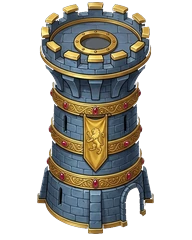
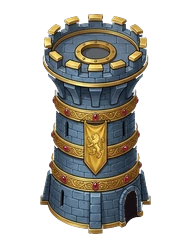
Обновление игры

diff --git a/js/art.js b/js/art.js
@@ -1,7 +1,7 @@
 // Графика башен и зданий: растровые ассеты из img/ (js/sprites.js); процедурная отрисовка — запасной вариант и для зданий без ассетов (банк, алтарь).
 // Все спрайты рисуются кодом при загрузке и кэшируются в canvas (масштаб S подбирается под экран).
-import { SPR, img } from './sprites.js?v=20261025134940';
-import { TOWERS } from './data.js?v=20261025134940';
+import { SPR, img } from './sprites.js?v=20261025135957';
+import { TOWERS } from './data.js?v=20261025135957';
 export { SPR };
 export const OUT = '#170a0f';
 export let S = 2;
@@ -574,7 +574,7 @@ function towerIdx(type, lvl, br) {
   if (type === 'mine') return Math.min(lvl, k) - 1;
   if (m.bylevel) return Math.min(lvl, k) - 1;                               // 5 картинок = 5 уровней (мортира, огнемёт, гарпун)
   if (k === 5) return lvl <= 3 ? lvl - 1 : (br === 'A' ? 4 : 3);
-  const tab = k >= 4 ? [0, 1, 2, 3, 3] : k === 3 ? [0, 1, 2, 2, 2] : [0, 0, 1, 1, 1];
+  const tab = k >= 4 ? [0, 1, 2, 3, 3] : k === 3 ? (TOWERS[type] && TOWERS[type].premium ? [0, 1, 1, 2, 2] : [0, 1, 2, 2, 2]) : [0, 0, 1, 1, 1];      // у премиума три внешних вида: 1 ур., 2–3 ур., 4–5 ур.
   return tab[Math.min(lvl, 5) - 1];
 }
 // Здание не больше клетки по ширине и клетки с небольшим запасом по высоте: соседние здания не закрывают друг друга.
@@ -582,14 +582,18 @@ function towerIdx(type, lvl, br) {
 // предельные размеры (ширина, высота) здания на карте; узкие и низкие здания разрешено делать крупнее
 const CAPS = { mortar: [56, 78], mine: [50, 58], bolt: [56, 72], frost: [56, 72], tesla: [56, 72], saw: [56, 70], banner: [56, 72], flame: [56, 78], voidwell: [56, 70], toxic: [56, 68], bank: [56, 70], altar: [56, 66], harpoon: [56, 78],
   gold_bolt: [56, 78], storm_tesla: [56, 72], hell_flame: [56, 78] }, CAP_DEF = [56, 64], GK = {};
-function groupK(type) {
-  if (GK[type]) return GK[type];
-  const [cw, ch] = CAPS[type] || CAP_DEF; let k = TS * 2; for (const [l, t, r, b] of SPR.towers[type].boxes) k = Math.min(k, cw / (r - l), ch / (b - t));
-  return (GK[type] = Math.min(TS, k / LEVEL_MULT[4]));
+// Размер спрайта считается по каждой картинке отдельно: ранние уровни (маленькие хижины, низкие постаменты) растягиваются до доли предельной высоты (HF), чтобы не казаться крошечными; ширина ограничена CAPS.
+const HF = [0.86, 0.93, 1, 1, 1], TS_MAX = 0.46, SK = {};
+function spriteK(type, lvl, br) {
+  const i = towerIdx(type, lvl, br), key = type + ':' + i + ':' + Math.min(lvl, 5); if (SK[key]) return SK[key];
+  const [l, t, r, b] = SPR.towers[type].boxes[i], [cw, ch] = CAPS[type] || CAP_DEF, hf = HF[Math.min(lvl, 5) - 1];
+  return (SK[key] = Math.min(TS_MAX, cw / (r - l), (ch * hf) / (b - t)));
 }
-const spriteK = (type, lvl) => groupK(type) * LEVEL_MULT[Math.min(lvl, 5) - 1];
+// точка картинки башни (пикселы ячейки 192×240) в координатах карты относительно якоря здания (x - TW_AX, y - TW_AY добавляет вызывающий)
+export function towerPt(type, lvl, br, px, py) { const k = spriteK(type, lvl, br); return { x: 40 - 96 * k + px * k - TW_AX, y: TW_BASE_Y - 240 * k + py * k - TW_AY }; }
+export function towerDoors(type, lvl, br) { const m = SPR.ok && SPR.towers[type]; return (m && m.doors && m.doors[towerIdx(type, lvl, br)]) || []; }
 export function towerGeo(type, lvl, br) {
-  const i = towerIdx(type, lvl, br), [l, t, r, b] = SPR.towers[type].boxes[i], k = spriteK(type, lvl);
+  const i = towerIdx(type, lvl, br), [l, t, r, b] = SPR.towers[type].boxes[i], k = spriteK(type, lvl, br);
   const x0 = 40 - 96 * k, y0 = TW_BASE_Y - 240 * k;
   return { top: y0 + t * k, bottom: y0 + b * k, left: x0 + l * k, right: x0 + r * k };
 }
@@ -598,7 +602,7 @@ const BR_TINT = { A: '#4aa8ff', B: '#ff3a3a' };
 const RIM = { frost: '#d4f0ff', tesla: '#c4e4ff', toxic: '#e0ffb8', flame: '#ffd8a8', voidwell: '#e6d0ff', banner: '#ffd0d0', saw: '#ffe6c0', mine: '#fff0b8' };
 function spriteTower(type, lvl, br) {
   const i = towerIdx(type, lvl, br), im = img(`towers/${type}_${i}.webp`); if (!im) return null;
-  const k = spriteK(type, lvl), w = 192 * k, h = 240 * k;
+  const k = spriteK(type, lvl, br), w = 192 * k, h = 240 * k;
   const rim = RIM[type] || '#fff4d0';
   const body = mk(TW_W, TW_H, (g2) => {
     g2.imageSmoothingQuality = 'high'; g2.drawImage(im, 40 - w / 2, TW_BASE_Y - h, w, h);
@@ -642,7 +646,7 @@ export function rotHead(type, lvl, br) {
   if (!type) return null;
   const m = SPR.ok && SPR.towers[type]; if (!m || !m.head) return null;
   const im = img(`towers/${type}_head.webp`); if (!im) return null;
-  const i = towerIdx(type, lvl, br), k = spriteK(type, lvl), [hx, hy] = m.holes[i], w = 192 * k, h = 240 * k;
+  const i = towerIdx(type, lvl, br), k = spriteK(type, lvl, br), [hx, hy] = m.holes[i], w = 192 * k, h = 240 * k;
   return { im, cw: m.head.cw, ch: m.head.ch, ax: m.head.ax, ay: m.head.ay, mx: m.head.mx || 0, my: m.head.my || 0, k, dx: 40 - w / 2 + hx * k - TW_AX, dy: TW_BASE_Y - h + hy * k - TW_AY };
 }
 // Дуло повёрнутой головы в тех же координатах, где рисуются снаряды и эффекты: ось плиты + вынос ствола вдоль одного из 8 направлений картинки (эллипс: вдоль экрана 1, вглубь 0.5) и высота дула над плитой.

diff --git a/js/main.js b/js/main.js
@@ -1,26 +1,26 @@
 // Точка входа: загрузка ассетов, навигация (старт → карта → сложность → подготовка → бой), игровой цикл, ввод, сохранения.
-import * as D from './data.js?v=20261025134940';
-import * as A from './art.js?v=20261025134940';
-import { Sim } from './sim.js?v=20261025134940';
-import { Gore } from './gore.js?v=20261025134940';
-import { Renderer } from './render.js?v=20261025134940';
-import { GameUI } from './ui.js?v=20261025134940';
-import { Tutorial } from './tutorial.js?v=20261025134940';
-import { Sfx, attachSfx } from './audio.js?v=20261025134940';
-import { TG, defaultSave, defaultSettings, betterRun } from './tg.js?v=20261025134940';
-import { applyEnemySprites, releaseEnemies, enemyFiles } from './enemies.js?v=20261025134940';
-import { loadSprites, loadEnemyImgs, loadLand, dropLand } from './sprites.js?v=20261025134940';
-import { mapBG, releaseBG } from './env.js?v=20261025134940';
-import { MENU_SPEC } from './music.js?v=20261025134940';
-import { Meta, perkMods, lockedItems, nextAfter, tutorialDone, getLoadout, slotsOf } from './meta.js?v=20261025134940';
-import { renderForge, renderAchs } from './screens.js?v=20261025134940';
-import { renderShop } from './shop.js?v=20261025134940';
-import { Wallet } from './wallet.js?v=20261025134940';
-import { initLang, pickLang } from './i18n.js?v=20261025134940';
-import { Menus, RUN, clock } from './menus.js?v=20261025134940';
-import { Net } from './net.js?v=20261025134940';
-import { gemIc } from './res.js?v=20261025134940';
-import { bareGlyphUrl, glyphIcon, iconUrl, PALETTE } from './icons.js?v=20261025134940';
+import * as D from './data.js?v=20261025135957';
+import * as A from './art.js?v=20261025135957';
+import { Sim } from './sim.js?v=20261025135957';
+import { Gore } from './gore.js?v=20261025135957';
+import { Renderer } from './render.js?v=20261025135957';
+import { GameUI } from './ui.js?v=20261025135957';
+import { Tutorial } from './tutorial.js?v=20261025135957';
+import { Sfx, attachSfx } from './audio.js?v=20261025135957';
+import { TG, defaultSave, defaultSettings, betterRun } from './tg.js?v=20261025135957';
+import { applyEnemySprites, releaseEnemies, enemyFiles } from './enemies.js?v=20261025135957';
+import { loadSprites, loadEnemyImgs, loadLand, dropLand } from './sprites.js?v=20261025135957';
+import { mapBG, releaseBG } from './env.js?v=20261025135957';
+import { MENU_SPEC } from './music.js?v=20261025135957';
+import { Meta, perkMods, lockedItems, nextAfter, tutorialDone, getLoadout, slotsOf } from './meta.js?v=20261025135957';
+import { renderForge, renderAchs } from './screens.js?v=20261025135957';
+import { renderShop } from './shop.js?v=20261025135957';
+import { Wallet } from './wallet.js?v=20261025135957';
+import { initLang, pickLang } from './i18n.js?v=20261025135957';
+import { Menus, RUN, clock } from './menus.js?v=20261025135957';
+import { Net } from './net.js?v=20261025135957';
+import { gemIc } from './res.js?v=20261025135957';
+import { bareGlyphUrl, glyphIcon, iconUrl, PALETTE } from './icons.js?v=20261025135957';
 
 const $ = (s) => document.querySelector(s);
 const show = (id) => $(id).classList.remove('hidden');
@@ -49,8 +49,8 @@ async function boot() {
   await initLang(pickLang());                                                   // язык интерфейса: до построения экранов
   TG.init();
   if (location.search.includes('debug')) window.__bk = ctrl;
-  if (location.search.includes('enemydemo')) import('./demo.js?v=20261025134940').then((m) => m.enemyDemo(ctrl));
-  if (location.search.includes('buildall')) import('./demo.js?v=20261025134940').then((m) => m.buildAll(ctrl));
+  if (location.search.includes('enemydemo')) import('./demo.js?v=20261025135957').then((m) => m.enemyDemo(ctrl));
+  if (location.search.includes('buildall')) import('./demo.js?v=20261025135957').then((m) => m.buildAll(ctrl));
   save = await TG.load(); ctrl.save = save;
   sfx.sfxOn = save.sfx; sfx.musOn = save.mus; applySettings();
   const dpr = Math.min(window.devicePixelRatio || 1, TG.isMobile ? 1.5 : 2);      // на телефоне холст чуть мельче: меньше нагрев

diff --git a/js/render.js b/js/render.js
@@ -1,10 +1,10 @@
 // Отрисовка игрового поля: фон, кровь, сущности (с сортировкой по глубине), снаряды, частицы, подсказки.
-import { CELL, COLS, ROWS, WORLD_W, WORLD_H, PAD, VIEW_COLS, TOWERS, ECON, SPELLS } from './data.js?v=20261025134940';
-import * as A from './art.js?v=20261025134940';
-import { ENEMY_ART, FRAMES, enemyFrame, tinted, tintCanvas, animFrame, eliteFrame, drawAnim, BLOOD } from './enemies.js?v=20261025134940';
-import { tile } from './iconmap.js?v=20261025134940';
-import { img } from './sprites.js?v=20261025134940';
-import { mapBG, glowSprite, smokeSprite, shardSprite, coinSprite, bagSprite, sawBladeSprite, scorchSprite } from './env.js?v=20261025134940';
+import { CELL, COLS, ROWS, WORLD_W, WORLD_H, PAD, VIEW_COLS, TOWERS, ECON, SPELLS } from './data.js?v=20261025135957';
+import * as A from './art.js?v=20261025135957';
+import { ENEMY_ART, FRAMES, enemyFrame, tinted, tintCanvas, animFrame, eliteFrame, drawAnim, BLOOD } from './enemies.js?v=20261025135957';
+import { tile } from './iconmap.js?v=20261025135957';
+import { img } from './sprites.js?v=20261025135957';
+import { mapBG, glowSprite, smokeSprite, shardSprite, coinSprite, bagSprite, sawBladeSprite, scorchSprite } from './env.js?v=20261025135957';
 
 const T2 = Math.PI * 2;
 const clamp = (v, a, b) => Math.max(a, Math.min(b, v));
@@ -292,6 +292,12 @@ export class Renderer {
     const lvl = b.level, br = b.branch, art = A.TOWER_ART[b.type];
     const base = y - A.TW_AY; // y-координата верха спрайта
     const add = (sprite, cx, cy, size, alpha) => { ctx.save(); ctx.globalCompositeOperation = 'lighter'; ctx.globalAlpha = clamp(alpha, 0, 1); ctx.drawImage(sprite, cx - size / 2, cy - size / 2, size, size); ctx.restore(); };
+    if (b.prem && A.SPR.ok) {                         // у дверей премиум-башни горит и мерцает огонь изнутри
+      const at = A.artType(b.prem); for (const [dx, dy, dw] of A.towerDoors(at, lvl, br)) { if (dw < 12) continue;
+        const k = A.towerPt(at, lvl, br, dx, dy), fl = 0.5 + 0.25 * Math.sin(t * 9 + b.id) + 0.2 * Math.sin(t * 23.7 + b.id * 3) + 0.15 * Math.sin(t * 3.1);
+        add(glowSprite('#ff9a3a'), x + k.x, y + k.y + 1, Math.max(9, dw * (A.towerPt(at, lvl, br, 1, 0).x - A.towerPt(at, lvl, br, 0, 0).x) * 2.4), clamp(0.18 + 0.38 * fl, 0, 0.7));
+      }
+    }
     const M0 = A.muzzle(b);                                     // дуло повёрнутой головы (null у башен без головы)
     switch (b.type) {
       case 'bolt': case 'mortar': case 'flame': case 'harpoon': {

diff --git a/js/menus.js b/js/menus.js
@@ -1,14 +1,14 @@
 // Экраны вне боя: стартовый, карта кампании (рисованная карта мира), выбор сложности (карусель), рейтинговый забег, таблицы лидеров.
-import { LANGS, setLang, lang as curLang } from './i18n.js?v=20261025134940';
-import * as D from './data.js?v=20261025134940';
-import * as M from './meta.js?v=20261025134940';
-import { glyphIcon, iconUrl, bareGlyphUrl, PALETTE } from './icons.js?v=20261025134940';
-import { url as imgUrl } from './sprites.js?v=20261025134940';
-import { Net } from './net.js?v=20261025134940';
-import { towerIcon, econIcon, itemChips } from './ui.js?v=20261025134940';
-import { fillPlates, gemIc } from './res.js?v=20261025134940';
-import { gemHtml } from './gem3d.js?v=20261025134940';
-import { Wallet } from './wallet.js?v=20261025134940';
+import { LANGS, setLang, lang as curLang } from './i18n.js?v=20261025135957';
+import * as D from './data.js?v=20261025135957';
+import * as M from './meta.js?v=20261025135957';
+import { glyphIcon, iconUrl, bareGlyphUrl, PALETTE } from './icons.js?v=20261025135957';
+import { url as imgUrl } from './sprites.js?v=20261025135957';
+import { Net } from './net.js?v=20261025135957';
+import { towerIcon, econIcon, itemChips } from './ui.js?v=20261025135957';
+import { fillPlates, gemIc } from './res.js?v=20261025135957';
+import { gemHtml } from './gem3d.js?v=20261025135957';
+import { Wallet } from './wallet.js?v=20261025135957';
 
 const $ = (s) => document.querySelector(s);
 const el = (tag, cls, html) => { const e = document.createElement(tag); if (cls) e.className = cls; if (html !== undefined) e.innerHTML = html; return e; };

diff --git a/js/screens.js b/js/screens.js
@@ -1,12 +1,12 @@
 // Экраны меню: Кузница душ и Достижения (иконки в стиле WC3).
-import * as D from './data.js?v=20261025134940';
-import { uiIcon } from './env.js?v=20261025134940';
-import { glyphIcon, iconUrl, bareGlyphUrl, PALETTE, PERK_GLYPH, ACH_GLYPH } from './icons.js?v=20261025134940';
-import { towerIcon, econIcon } from './ui.js?v=20261025134940';
-import { PERKS, perkCost, buyPerk, ACH, itemUnlocked, unlockItem, slotsOf, buySlot } from './meta.js?v=20261025134940';
-import { fillPlates, trophyPlate, gemIc } from './res.js?v=20261025134940';
-import { ACH_IMG } from './iconmap.js?v=20261025134940';
-import { Wallet } from './wallet.js?v=20261025134940';
+import * as D from './data.js?v=20261025135957';
+import { uiIcon } from './env.js?v=20261025135957';
+import { glyphIcon, iconUrl, bareGlyphUrl, PALETTE, PERK_GLYPH, ACH_GLYPH } from './icons.js?v=20261025135957';
+import { towerIcon, econIcon } from './ui.js?v=20261025135957';
+import { PERKS, perkCost, buyPerk, ACH, itemUnlocked, unlockItem, slotsOf, buySlot } from './meta.js?v=20261025135957';
+import { fillPlates, trophyPlate, gemIc } from './res.js?v=20261025135957';
+import { ACH_IMG } from './iconmap.js?v=20261025135957';
+import { Wallet } from './wallet.js?v=20261025135957';
 
 const $ = (s) => document.querySelector(s);
 const el = (tag, cls, html) => { const e = document.createElement(tag); if (cls) e.className = cls; if (html !== undefined) e.innerHTML = html; return e; };

diff --git a/js/shop.js b/js/shop.js
@@ -1,12 +1,12 @@
 // Магазин: ежедневный подарок, стартовый набор (один раз), премиум-башни за кристаллы, пакеты кристаллов за Telegram Stars.
 // Приёмы, которые тут работают на повторные покупки: первая покупка каждого пакета даёт ×2, ярлыки «Хит» и «Лучшая цена»,
 // серия подарков на 7 дней, постоянные траты кристаллов (слоты, закрытые здания, премиум, усилители с растущей ценой).
-import * as D from './data.js?v=20261025134940';
-import { Wallet } from './wallet.js?v=20261025134940';
-import { fillPlates, gemIc } from './res.js?v=20261025134940';
-import { towerIcon } from './ui.js?v=20261025134940';
-import { iconUrl, bareGlyphUrl, glyphIcon } from './icons.js?v=20261025134940';
-import { SHOP_IMG } from './iconmap.js?v=20261025134940';
+import * as D from './data.js?v=20261025135957';
+import { Wallet } from './wallet.js?v=20261025135957';
+import { fillPlates, gemIc } from './res.js?v=20261025135957';
+import { towerIcon } from './ui.js?v=20261025135957';
+import { iconUrl, bareGlyphUrl, glyphIcon } from './icons.js?v=20261025135957';
+import { SHOP_IMG } from './iconmap.js?v=20261025135957';
 const big = (n, s = 96) => iconUrl(glyphIcon(n, { size: s }));
 
 const $ = (s) => document.querySelector(s);

diff --git a/js/ui.js b/js/ui.js
@@ -1,10 +1,10 @@
 // Интерфейс боя: HUD, выдвижная панель слотов, блок выбранного здания (иконки) и окно выбора улучшения. Без поясняющих текстов — только иконки и цифры.
-import * as D from './data.js?v=20261025134940';
-import * as A from './art.js?v=20261025134940';
-import { uiIcon } from './env.js?v=20261025134940';
-import { enemyFrame, gibSprite } from './enemies.js?v=20261025134940';
-import { glyphIcon, spriteIcon, iconUrl, bareGlyphUrl, PALETTE, STAT_GLYPH, SPELL_GLYPH } from './icons.js?v=20261025134940';
-import { TARGET_MODES } from './sim.js?v=20261025134940';
+import * as D from './data.js?v=20261025135957';
+import * as A from './art.js?v=20261025135957';
+import { uiIcon } from './env.js?v=20261025135957';
+import { enemyFrame, gibSprite } from './enemies.js?v=20261025135957';
+import { glyphIcon, spriteIcon, iconUrl, bareGlyphUrl, PALETTE, STAT_GLYPH, SPELL_GLYPH } from './icons.js?v=20261025135957';
+import { TARGET_MODES } from './sim.js?v=20261025135957';
 
 const $ = (s, r = document) => r.querySelector(s);
 const el = (tag, cls, html) => { const e = document.createElement(tag); if (cls) e.className = cls; if (html !== undefined) e.innerHTML = html; return e; };

diff --git a/js/gore.js b/js/gore.js
@@ -1,9 +1,9 @@
 // Расчленёнка, кровь и частицы. Подписывается на события симуляции и рисует в постоянный «слой крови».
-import { tr } from './i18n.js?v=20261025134940';
-import { WORLD_W, WORLD_H, CELL, ENEMIES } from './data.js?v=20261025134940';
-import { S as ART_S } from './art.js?v=20261025134940';
-import { BLOOD, gibSprite, gibKinds, enemyFrame, tinted, ENEMY_ART } from './enemies.js?v=20261025134940';
-import { splatSprite, poolSprite, scorchSprite, iceSprite, glowSprite, smokeSprite, shardSprite, coinSprite } from './env.js?v=20261025134940';
+import { tr } from './i18n.js?v=20261025135957';
+import { WORLD_W, WORLD_H, CELL, ENEMIES } from './data.js?v=20261025135957';
+import { S as ART_S } from './art.js?v=20261025135957';
+import { BLOOD, gibSprite, gibKinds, enemyFrame, tinted, ENEMY_ART } from './enemies.js?v=20261025135957';
+import { splatSprite, poolSprite, scorchSprite, iceSprite, glowSprite, smokeSprite, shardSprite, coinSprite } from './env.js?v=20261025135957';
 
 const GRAV = 560;
 const LAYERS = 3, SPAN = 6, HOLD = 6, FADE = 5;   // секунд игрового времени

diff --git a/js/env.js b/js/env.js
@@ -1,9 +1,9 @@
 // Окружение: фон карт, пятна крови, иконки интерфейса. На картах стоят только деревья и валуны; портал и ворота — на концах дороги.
-import { OUT, S, mk, cached, shade, lin, rad, rrect, ell, circ, poly, fillStroke, tube, glow, shadowEll, rng } from './art.js?v=20261025134940';
-import { CELL, COLS, ROWS, WORLD_W, WORLD_H, PAD, MAPS } from './data.js?v=20261025134940';
-import { UI_IMG, inner } from './iconmap.js?v=20261025134940';
-import { BLOOD } from './enemies.js?v=20261025134940';
-import { SPR, img } from './sprites.js?v=20261025134940';
+import { OUT, S, mk, cached, shade, lin, rad, rrect, ell, circ, poly, fillStroke, tube, glow, shadowEll, rng } from './art.js?v=20261025135957';
+import { CELL, COLS, ROWS, WORLD_W, WORLD_H, PAD, MAPS } from './data.js?v=20261025135957';
+import { UI_IMG, inner } from './iconmap.js?v=20261025135957';
+import { BLOOD } from './enemies.js?v=20261025135957';
+import { SPR, img } from './sprites.js?v=20261025135957';
 
 const T2 = Math.PI * 2;
 const clamp = (v, a, b) => Math.max(a, Math.min(b, v));

diff --git a/js/data.js b/js/data.js
@@ -1,7 +1,7 @@
 // Все игровые данные: карты, башни, экономика, враги, волны.
 // Файл не зависит ни от DOM, ни от canvas — его использует и симуляция в Node (баланс-бот).
 
-import { COLS, ROWS } from './layouts.js?v=20261025134940';
+import { COLS, ROWS } from './layouts.js?v=20261025135957';
 export const CELL = 48;
 export { COLS, ROWS };
 export const WORLD_W = CELL * COLS, WORLD_H = CELL * ROWS;
@@ -20,7 +20,7 @@ export const CHEST_CHANCE = 0.6, CHEST_HITS = 3, CHEST_GOLD = 80;
 
 // ───────────────────────── Карты ─────────────────────────
 // Уровни кампании описаны в levels.js (раскладки дорог — в layouts.js). Индекс в MAPS = номер уровня.
-import { LEVELS, SECTORS, CAMPAIGN } from './levels.js?v=20261025134940';
+import { LEVELS, SECTORS, CAMPAIGN } from './levels.js?v=20261025135957';
 export const MAPS = LEVELS;
 export { CAMPAIGN };
 export { SECTORS };

diff --git a/index.html b/index.html
@@ -36,8 +36,8 @@ img:not([src]),img[src=""]{visibility:hidden}
 @font-face{font-family:'Oswald';font-style:normal;font-weight:700;font-display:swap;src:url(fonts/oswald-latin-5.woff2) format('woff2');unicode-range:U+0000-00FF, U+0131, U+0152-0153, U+02BB-02BC, U+02C6, U+02DA, U+02DC, U+0304, U+0308, U+0329, U+2000-206F, U+20AC, U+2122, U+2191, U+2193, U+2212, U+2215, U+FEFF, U+FFFD}
 </style>
 <script defer src="https://telegram.org/js/telegram-web-app.js"></script>
-<link rel="stylesheet" href="css/style.css?v=20261025134940" media="print" onload="this.media='all'">
-<noscript><link rel="stylesheet" href="css/style.css?v=20261025134940"></noscript>
+<link rel="stylesheet" href="css/style.css?v=20261025135957" media="print" onload="this.media='all'">
+<noscript><link rel="stylesheet" href="css/style.css?v=20261025135957"></noscript>
 </head>
 <body>
 <div id="app">
@@ -213,6 +213,6 @@ img:not([src]),img[src=""]{visibility:hidden}
   </div>
 
 </div>
-<script type="module" src="js/main.js?v=20261025134940"></script>
+<script type="module" src="js/main.js?v=20261025135957"></script>
 </body>
 </html>

diff --git a/js/wallet.js b/js/wallet.js
@@ -1,8 +1,8 @@
 // Кошелёк донат-кристаллов. В Telegram баланс, покупки и цены живут на сервере (supabase/schema.sql), клиент только показывает.
 // Вне Telegram (обычный браузер) работает локальный режим для разработки: траты считаются в сохранении, пополнение только с ?debug.
-import * as D from './data.js?v=20261025134940';
-import { Net } from './net.js?v=20261025134940';
-import { TG } from './tg.js?v=20261025134940';
+import * as D from './data.js?v=20261025135957';
+import { Net } from './net.js?v=20261025135957';
+import { TG } from './tg.js?v=20261025135957';
 
 const today = () => new Date().toISOString().slice(0, 10);
 const debug = () => location.search.includes('debug');
